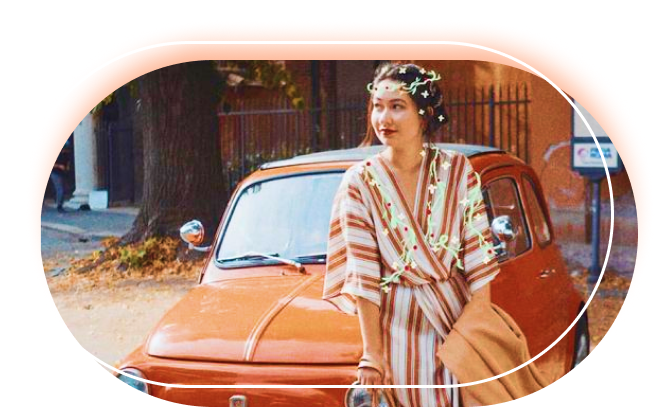
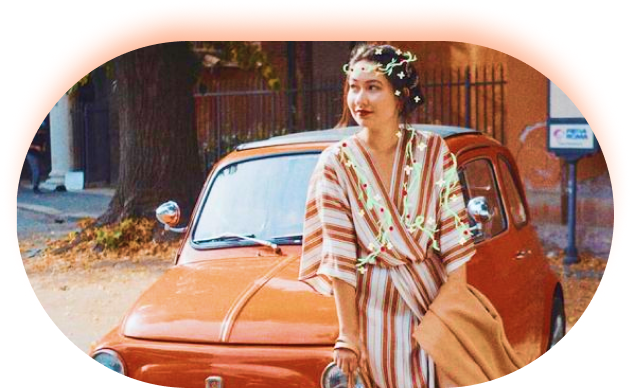
Сделал правки.

diff --git a/index.html b/index.html
@@ -264,8 +264,8 @@
           </p>
         </div>
       </div>
-      <ul class="review__block-list">
-        <li class="review__block _block-center">
+      <div class="review__block-list">
+        <div class="review__block _block-center">
           <p class="review__block-text">I am very satisfied with the services
             provided and the consultation is very
             pleasant. The doctors are also friendly and
@@ -282,8 +282,8 @@
             <div class="review__author-img author_image-left"></div>
             <span class="review__author-name">Ronney Samba</span>
           </div>
-        </li>
-        <li class="review__block block_orange _block-bottom">
+        </div>
+        <div class="review__block block_orange _block-bottom">
           <p class="review__block-text">I am very happy with the service so
             friendly and the doctor who is really great
             with his expertise and can be relied on. and I can call the doctor
@@ -303,8 +303,8 @@
             <div class="review__author-img author_image-center"></div>
             <span class="review__author-name">Jenniver Janet</span>
           </div>
-        </li>
-        <li class="review__block _block-top">
+        </div>
+        <div class="review__block _block-top">
           <p class="review__block-text">I am very satisfied with the services
             provided and the consultation is very
             pleasant. The doctors are also friendly and very trustworthy and
@@ -321,8 +321,8 @@
             <div class="review__author-img author_image-right"></div>
             <span class="review__author-name">Ronney Samba</span>
           </div>
-        </li>
-      </ul>
+        </div>
+      </div>
     </section>
     <footer class="footer">
       <div class="footer__header">

diff --git a/css/main.css b/css/main.css
@@ -6,6 +6,7 @@
   --orange: #fc621c;
   --transwhite: rgba(255, 255, 255, 0.14);
   --notification-color: #dd4141;
+  --notification-border: #a72424;
   --rent-a-car-input-bg: #f9f9f9;
   --rent-a-car-border-bg: rgba(0, 0, 0, 0.05);
   --review-block-color: #f8f8f8;
@@ -191,12 +192,13 @@ h4 {
 
 .navigation__notification:hover .navigation__notification-indicator {
   position: absolute;
-  width: 2.4rem;
-  height: 2.4rem;
+  width: 1.3rem;
+  height: 1.3rem;
+  border: solid 0.125rem var(--notification-border);
 }
 
 .navigation__notification:hover .navigation__notification-count {
-  font-size: 24px;
+  font-size: 15px;
 }
 
 .navigation__notification-indicator {
@@ -227,13 +229,13 @@ h4 {
   border-radius: .3125rem;
   box-shadow: 0 0 0 0 var(--black);
   text-shadow: 0 0 0 var(--orange);
-  transition: box-shadow .1s ease, text-shadow .1s ease;
+  transition: box-shadow .2s ease, text-shadow .2s ease-out;
   cursor: pointer;
 }
 
 .navigation__login:hover {
-  box-shadow: 0 0 0.1rem 0.1rem var(--black);
-  text-shadow: .0625rem 0 1.5rem var(--orange);
+  box-shadow: 0 0 .08rem .08rem var(--black);
+  text-shadow: .05rem 0 .1rem var(--orange);
 }
 
 .best-in-auto {
@@ -440,8 +442,10 @@ h4 {
 
 .rent-a-car__car-bg {
   background: var(--rent-a-car) no-repeat;
-  min-width: 44.4375rem;
-  min-height: 35.1875rem;
+  min-width: 40.4375rem;
+  min-height: 38.1875rem;
+  border-radius: 2.1875rem;
+  background-size: cover;
 }
 
 .comfortable-car-white {
